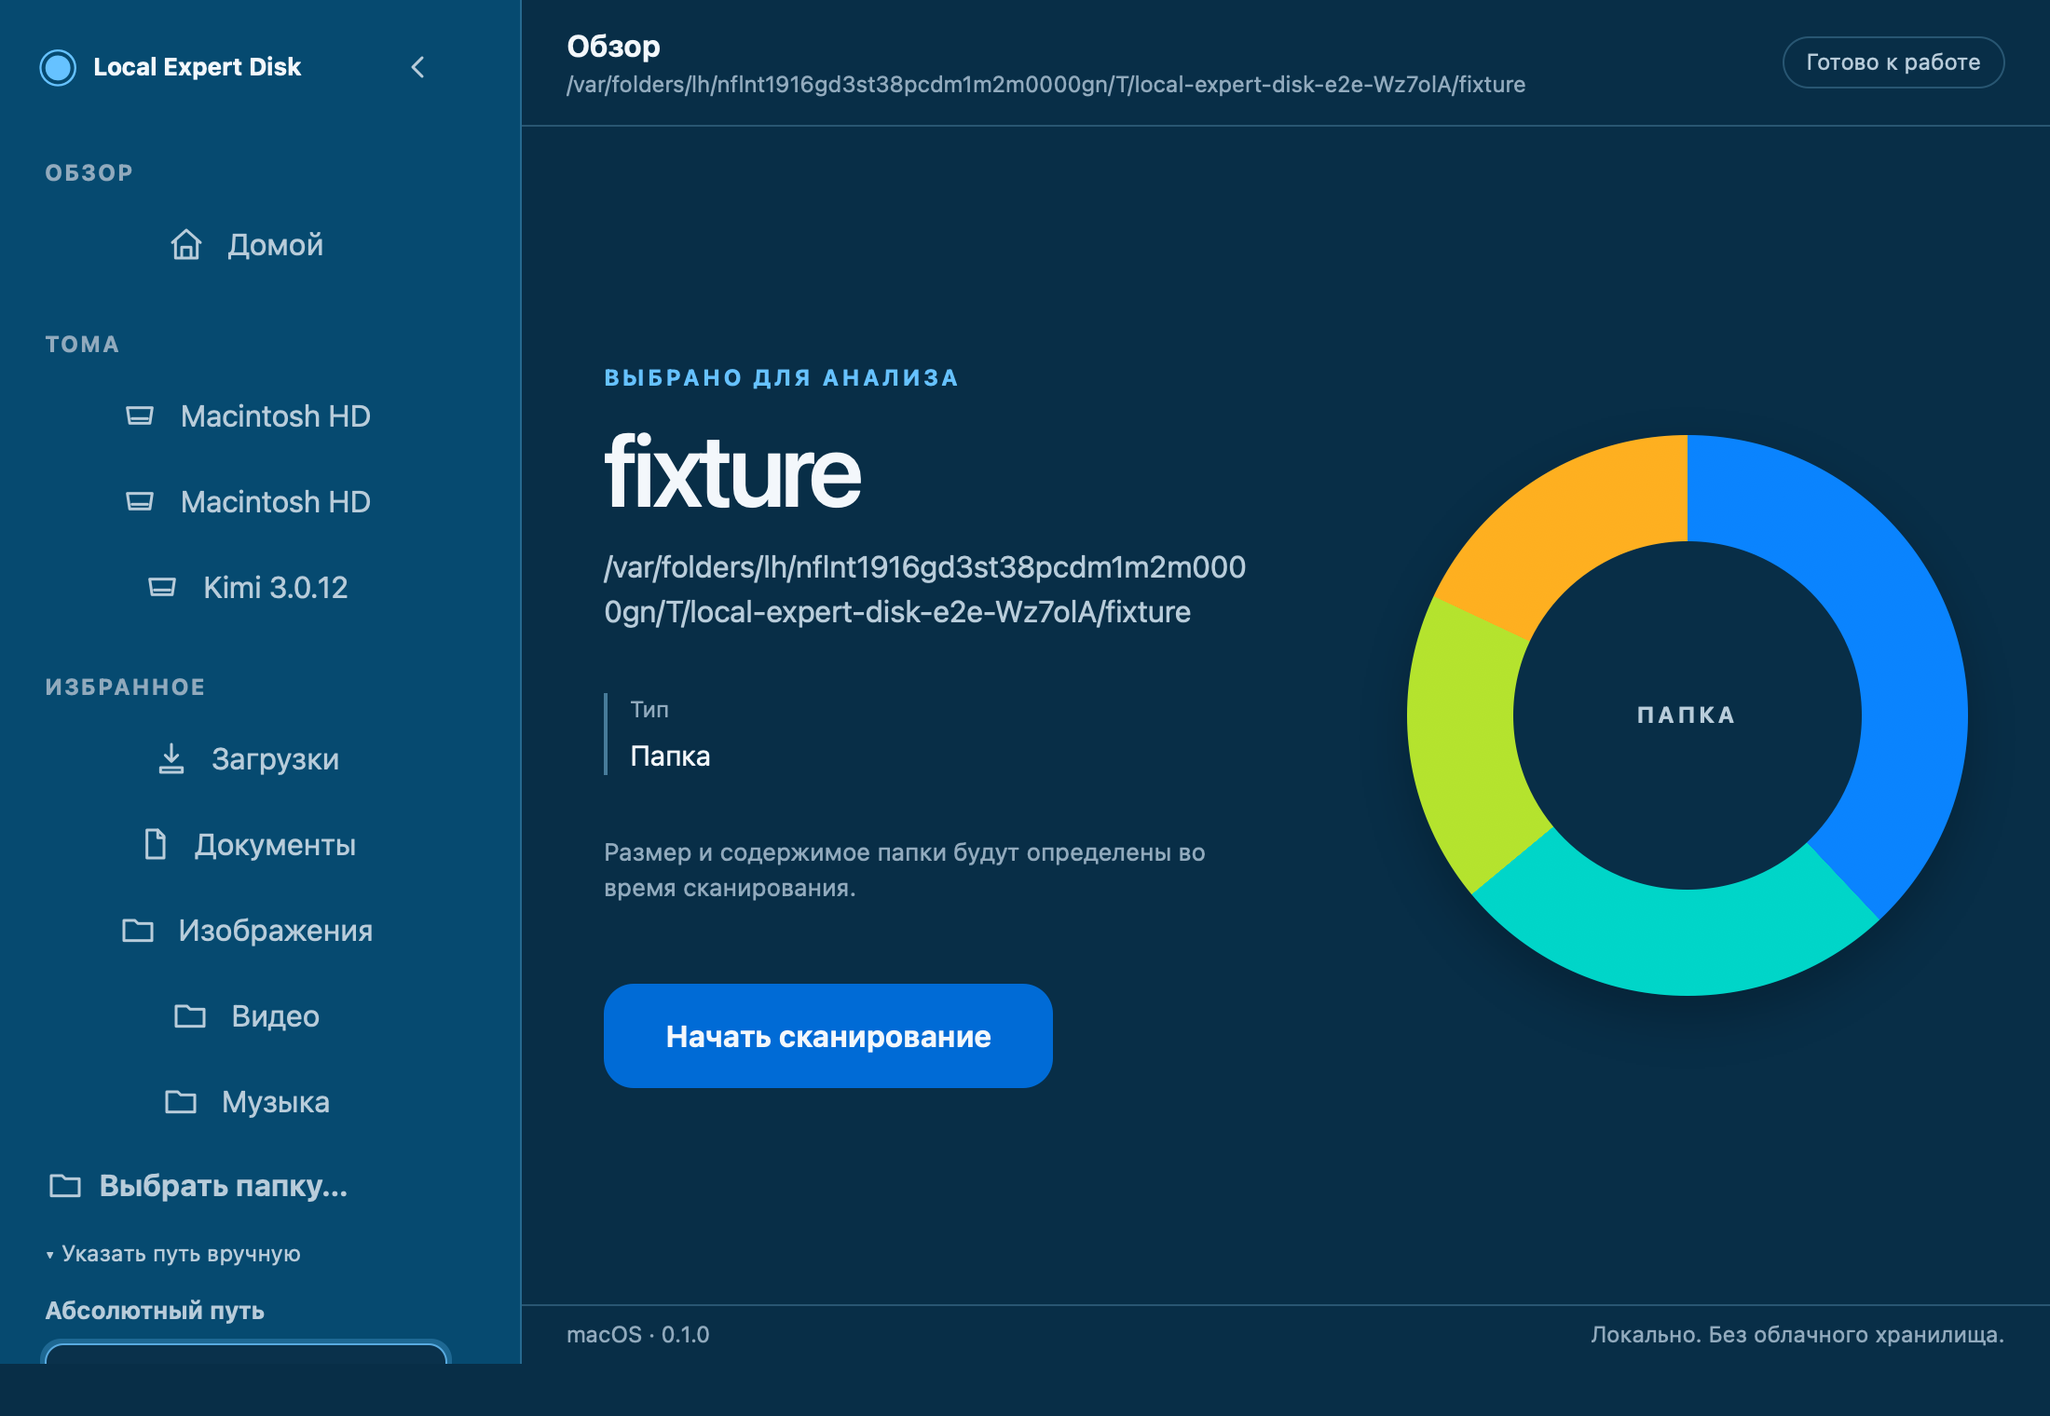
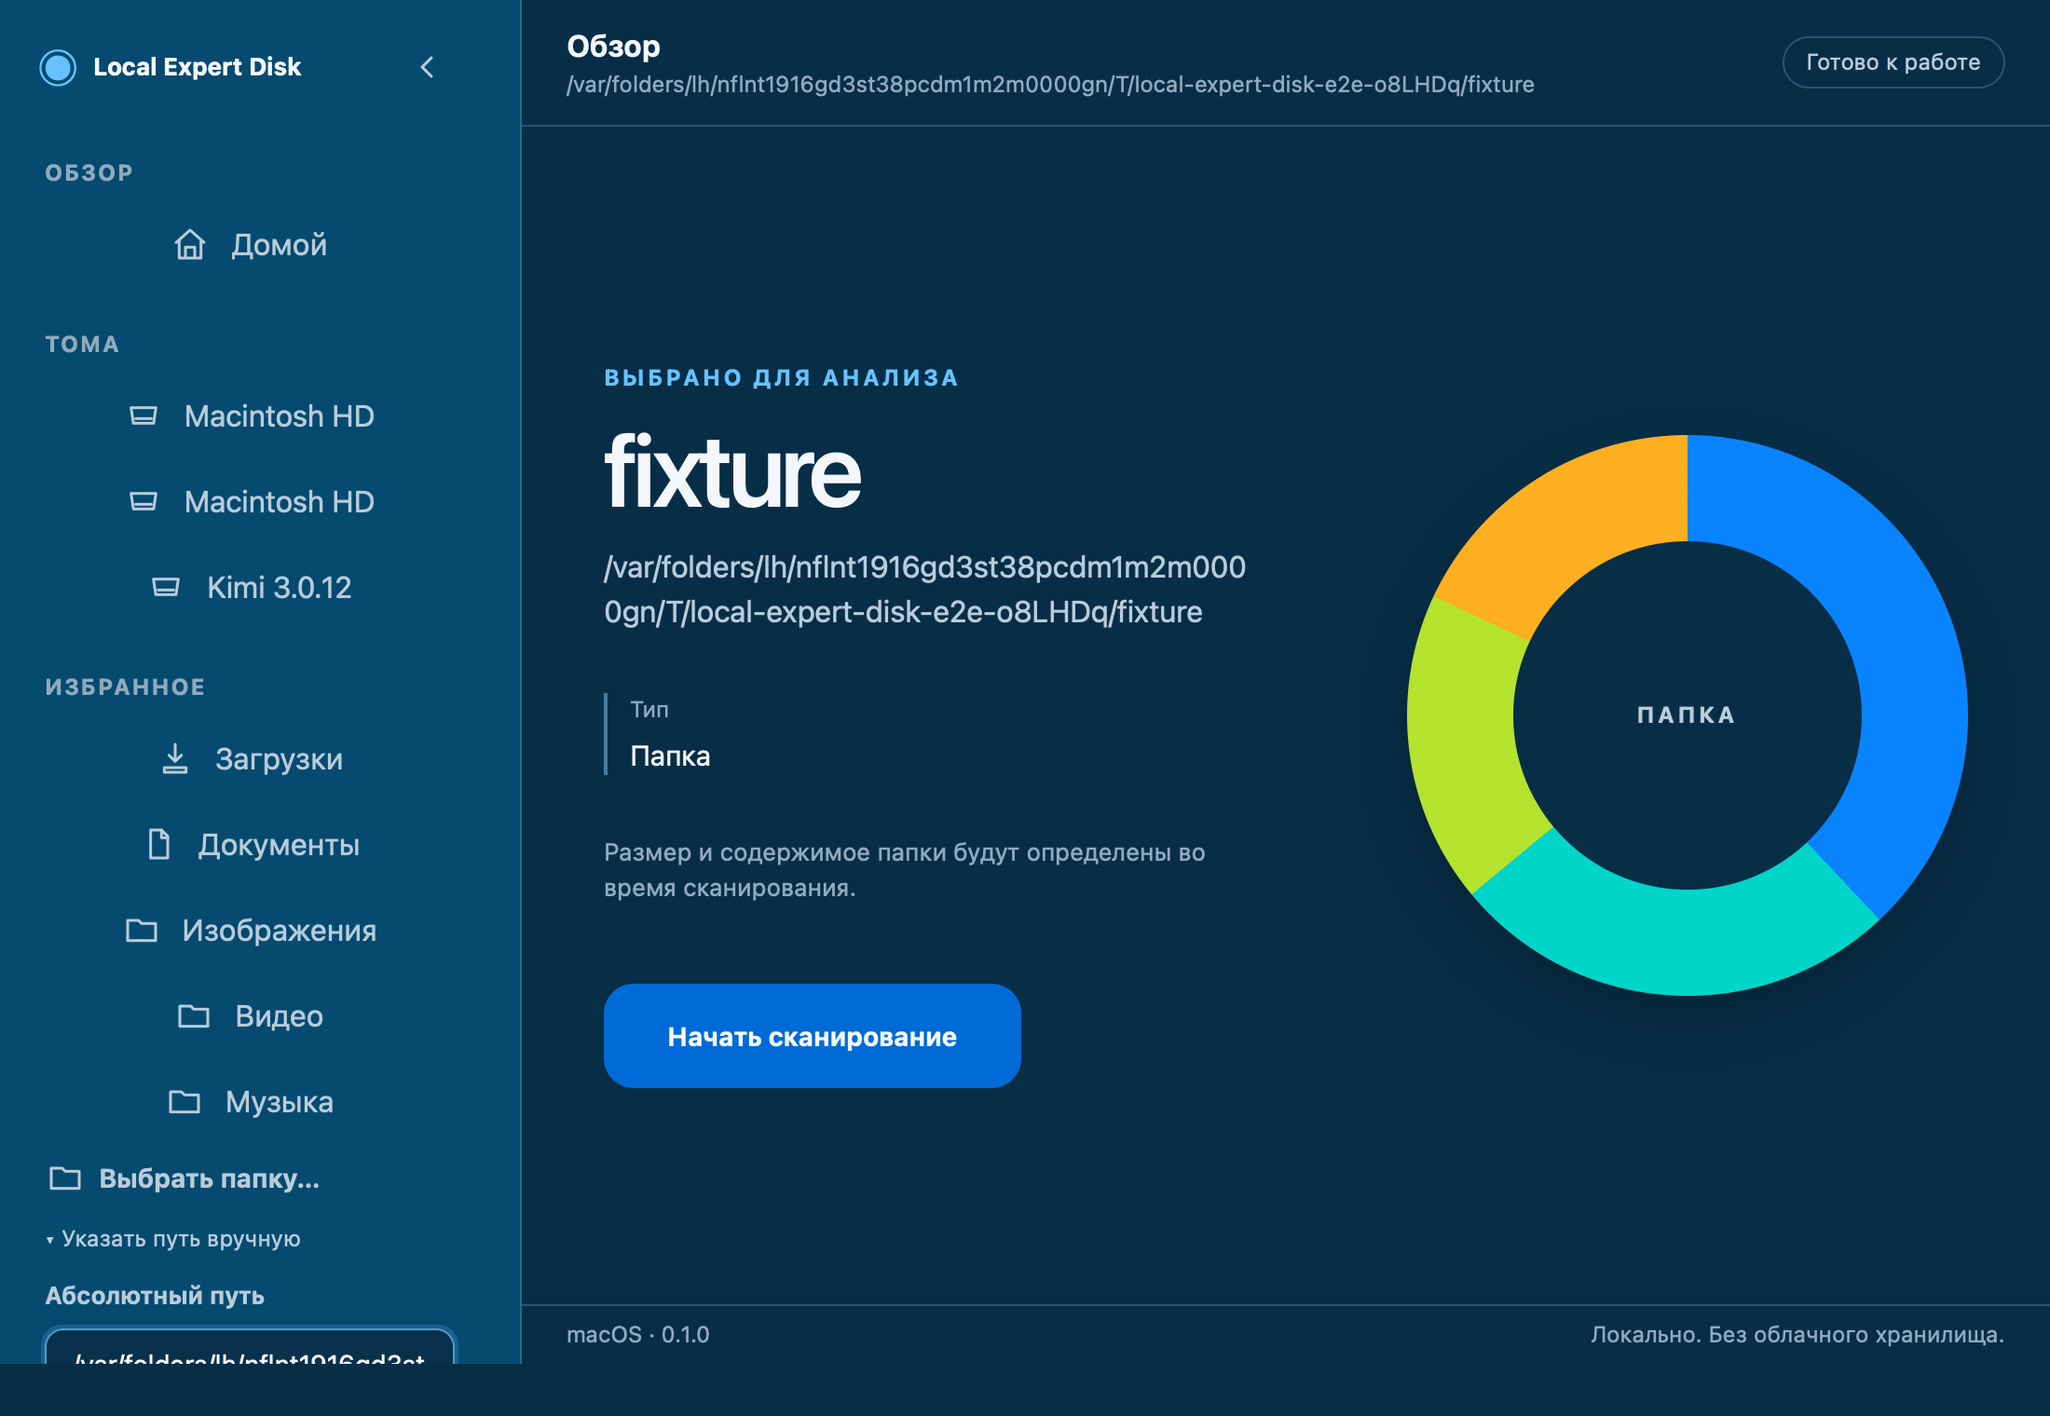
Polish form controls and align virtualized row sizing

diff --git a/apps/desktop/frontend/src/ui/ui.css b/apps/desktop/frontend/src/ui/ui.css
@@ -12,6 +12,7 @@
   border-radius: var(--control-radius);
   display: inline-flex;
   font: inherit;
+  font-size: var(--font-size-control);
   font-weight: var(--font-weight-semibold);
   justify-content: center;
   transition:
@@ -27,8 +28,9 @@
 }
 
 .ui-button--small {
-  min-height: var(--control-height-md);
-  padding-inline: var(--space-3);
+  border-radius: var(--control-radius-compact);
+  min-height: var(--control-height-sm);
+  padding-inline: var(--control-padding-x-compact);
 }
 
 .ui-button--medium {
@@ -36,7 +38,7 @@
 }
 
 .ui-button--large {
-  border-radius: var(--radius-lg);
+  border-radius: var(--control-radius-primary);
   min-height: var(--control-height-lg);
   padding-inline: var(--space-8);
 }
@@ -73,9 +75,14 @@
   border-color: var(--color-border-strong);
 }
 
+.ui-button--secondary:active:not(:disabled),
+.ui-button--ghost:active:not(:disabled) {
+  background: var(--control-background-pressed);
+}
+
 .ui-button--ghost {
   background: transparent;
-  color: var(--color-text-secondary);
+  color: var(--control-text-muted);
 }
 
 .ui-button--danger {
@@ -127,8 +134,8 @@
 .ui-segmented__item {
   background: transparent;
   color: var(--color-text-secondary);
-  min-height: var(--control-height-md);
-  padding-inline: var(--space-4);
+  min-height: var(--control-height-sm);
+  padding-inline: var(--control-padding-x-compact);
 }
 
 .ui-segmented__item:hover:not(:disabled) {
@@ -136,7 +143,7 @@
 }
 
 .ui-segmented__item[aria-pressed="true"] {
-  background: var(--color-accent-selected);
+  background: var(--control-background-selected);
   color: var(--color-text-primary);
 }
 
@@ -159,7 +166,7 @@
   border-radius: var(--control-radius);
   color: var(--control-text);
   font-family: var(--font-family-sans);
-  font-size: var(--font-size-md);
+  font-size: var(--font-size-control);
   font-weight: var(--font-weight-regular);
   min-height: var(--control-height-md);
   min-width: 0;
@@ -241,18 +248,18 @@
   -webkit-appearance: none;
   background: var(--control-background);
   border: var(--border-width) solid var(--control-border-hover);
-  border-radius: 0.3rem;
+  border-radius: var(--checkbox-radius);
   color: var(--color-text-primary);
   display: inline-grid;
   flex: 0 0 auto;
-  height: 1.125rem;
+  height: var(--checkbox-size);
   margin: 0;
   place-content: center;
   transition:
     background-color var(--motion-fast) var(--motion-easing),
     border-color var(--motion-fast) var(--motion-easing),
     box-shadow var(--motion-fast) var(--motion-easing);
-  width: 1.125rem;
+  width: var(--checkbox-size);
 }
 
 .ui-checkbox::before {
@@ -294,6 +301,7 @@
 .ui-search:has(.ui-search__input:disabled),
 .ui-checkbox:disabled {
   background: var(--control-background-disabled);
+  border-color: var(--control-border-disabled);
   color: var(--color-text-disabled);
   cursor: not-allowed;
   opacity: 0.7;

diff --git a/apps/desktop/frontend/src/components/ColumnBrowser.tsx b/apps/desktop/frontend/src/components/ColumnBrowser.tsx
@@ -11,7 +11,7 @@ import type { DirectoryColumn, FolderSort } from "../state/analyzerState";
 import { Icon } from "../ui/icons";
 import { Checkbox } from "../ui/primitives";
 
-const ROW_HEIGHT = 44;
+export const COLUMN_ROW_HEIGHT_PX = 40;
 const VIEWPORT_HEIGHT = 420;
 const VIRTUAL_THRESHOLD = 40;
 const OVERSCAN = 5;
@@ -96,9 +96,10 @@ function Column({
 
   const start =
     items.length >= VIRTUAL_THRESHOLD
-      ? Math.max(0, Math.floor(liveScrollTop / ROW_HEIGHT) - OVERSCAN)
+      ? Math.max(0, Math.floor(liveScrollTop / COLUMN_ROW_HEIGHT_PX) - OVERSCAN)
       : 0;
-  const visibleCount = Math.ceil(VIEWPORT_HEIGHT / ROW_HEIGHT) + OVERSCAN * 2;
+  const visibleCount =
+    Math.ceil(VIEWPORT_HEIGHT / COLUMN_ROW_HEIGHT_PX) + OVERSCAN * 2;
   const end =
     items.length >= VIRTUAL_THRESHOLD
       ? Math.min(items.length, start + visibleCount)
@@ -114,7 +115,7 @@ function Column({
       if (viewportRef.current)
         viewportRef.current.scrollTop = Math.max(
           0,
-          nextIndex * ROW_HEIGHT - ROW_HEIGHT * 2,
+          nextIndex * COLUMN_ROW_HEIGHT_PX - COLUMN_ROW_HEIGHT_PX * 2,
         );
     }
     requestAnimationFrame(() => rowRefs.current.get(next.id)?.focus());
@@ -175,7 +176,9 @@ function Column({
         role="option"
         style={
           items.length >= VIRTUAL_THRESHOLD
-            ? { transform: `translateY(${itemIndex * ROW_HEIGHT}px)` }
+            ? {
+                transform: `translateY(${itemIndex * COLUMN_ROW_HEIGHT_PX}px)`,
+              }
             : undefined
         }
         tabIndex={focusedEntryId === entry.id ? 0 : -1}
@@ -252,7 +255,7 @@ function Column({
         {items.length >= VIRTUAL_THRESHOLD ? (
           <div
             className="directory-column__spacer"
-            style={{ height: items.length * ROW_HEIGHT }}
+            style={{ height: items.length * COLUMN_ROW_HEIGHT_PX }}
           >
             {rows}
           </div>

diff --git a/apps/desktop/frontend/src/ui/tokens.css b/apps/desktop/frontend/src/ui/tokens.css
@@ -4,6 +4,7 @@
   --font-family-sans: -apple-system, BlinkMacSystemFont, "Segoe UI", sans-serif;
   --font-size-xs: 0.75rem;
   --font-size-sm: 0.8125rem;
+  --font-size-control: 0.875rem;
   --font-size-md: 0.9375rem;
   --font-size-lg: 1.0625rem;
   --font-size-xl: 1.375rem;
@@ -78,22 +79,34 @@
   --shadow-focus: 0 0 0 3px rgb(102 194 255 / 32%);
 
   --control-height-sm: 2rem;
-  --control-height-md: 2.5rem;
+  --control-height-md: 2.375rem;
   --control-height-search: 2.75rem;
   --control-height-lg: 3.5rem;
+  --control-radius-compact: 0.5rem;
   --control-radius: 0.625rem;
   --control-radius-search: 0.875rem;
+  --control-radius-primary: 1rem;
+  --control-padding-x-compact: 0.75rem;
   --control-padding-x: 0.875rem;
   --control-background: var(--color-background-subtle);
   --control-background-hover: var(--color-background-elevated);
+  --control-background-pressed: var(--color-accent-subtle);
+  --control-background-selected: var(--color-accent-selected);
   --control-background-disabled: var(--color-background-subtle);
   --control-border: var(--color-border-default);
   --control-border-hover: var(--color-border-strong);
   --control-border-focus: var(--color-border-focus);
+  --control-border-disabled: var(--color-border-default);
   --control-text: var(--color-text-primary);
+  --control-text-muted: var(--color-text-secondary);
   --control-placeholder: var(--color-text-muted);
   --control-icon: var(--color-text-secondary);
   --control-focus-ring: var(--shadow-focus);
+  --checkbox-size: 1.125rem;
+  --checkbox-radius: 0.3rem;
+  --scrollbar-size: 0.625rem;
+  --scrollbar-thumb: var(--color-border-strong);
+  --scrollbar-thumb-hover: var(--color-border-focus);
   --row-height-compact: 2.5rem;
   --row-height-comfortable: 3rem;
   --sidebar-width: 17.5rem;

diff --git a/apps/desktop/frontend/src/styles.css b/apps/desktop/frontend/src/styles.css
@@ -7,6 +7,25 @@
 }
 * {
   box-sizing: border-box;
+  scrollbar-color: var(--scrollbar-thumb) transparent;
+  scrollbar-width: thin;
+}
+*::-webkit-scrollbar {
+  height: var(--scrollbar-size);
+  width: var(--scrollbar-size);
+}
+*::-webkit-scrollbar-track {
+  background: transparent;
+}
+*::-webkit-scrollbar-thumb {
+  background: var(--scrollbar-thumb);
+  background-clip: padding-box;
+  border: 2px solid transparent;
+  border-radius: var(--radius-pill);
+}
+*::-webkit-scrollbar-thumb:hover {
+  background: var(--scrollbar-thumb-hover);
+  background-clip: padding-box;
 }
 body {
   margin: 0;
@@ -433,7 +452,7 @@ button {
   display: inline-flex;
   font: inherit;
   font-family: var(--font-family-sans);
-  font-size: var(--font-size-md);
+  font-size: var(--font-size-control);
   font-weight: var(--font-weight-semibold);
   justify-content: center;
   min-height: var(--control-height-md);
@@ -698,7 +717,7 @@ progress {
   display: grid;
   gap: var(--space-2);
   grid-template-columns: 1.25rem 1.25rem minmax(4rem, 1fr) auto 0.75rem;
-  height: 44px;
+  height: var(--row-height-compact);
   padding: 0 var(--space-2);
 }
 .column-row:hover {

diff --git a/apps/desktop/frontend/src/ui/tokens.test.ts b/apps/desktop/frontend/src/ui/tokens.test.ts
@@ -129,10 +129,15 @@ describe("semantic design tokens", () => {
     const smallHeight = Number.parseFloat(token("control-height-sm"));
     const mediumHeight = Number.parseFloat(token("control-height-md"));
     const searchHeight = Number.parseFloat(token("control-height-search"));
-    expect(smallHeight).toBeGreaterThanOrEqual(2);
-    expect(mediumHeight).toBeGreaterThanOrEqual(2.5);
+    expect(smallHeight).toBe(2);
+    expect(mediumHeight).toBeGreaterThanOrEqual(2.25);
+    expect(mediumHeight).toBeLessThanOrEqual(2.5);
     expect(searchHeight).toBeGreaterThanOrEqual(2.625);
     expect(searchHeight).toBeLessThanOrEqual(2.875);
+    expect(token("font-size-control")).toBe("0.875rem");
+    expect(token("checkbox-size")).toBe("1.125rem");
+    expect(token("scrollbar-size")).toBe("0.625rem");
+    expect(token("row-height-compact")).toBe("2.5rem");
     expect(token("control-background")).toBe("var(--color-background-subtle)");
     expect(token("control-border-focus")).toBe("var(--color-border-focus)");
   });

diff --git a/apps/desktop/frontend/src/AnalyzerPanel.test.tsx b/apps/desktop/frontend/src/AnalyzerPanel.test.tsx
@@ -8,6 +8,7 @@ import {
 } from "@testing-library/react";
 import { beforeEach, describe, expect, it, vi } from "vitest";
 import { AnalyzerPanel } from "./AnalyzerPanel";
+import { COLUMN_ROW_HEIGHT_PX } from "./components/ColumnBrowser";
 import {
   getChildren,
   getCategories,
@@ -190,7 +191,9 @@ describe("Analyzer UI", () => {
     const list = screen.getByRole("listbox", {
       name: "Содержимое каталога fixture",
     });
-    fireEvent.scroll(list, { target: { scrollTop: 44 * 99 } });
+    fireEvent.scroll(list, {
+      target: { scrollTop: COLUMN_ROW_HEIGHT_PX * 99 },
+    });
     expect(await findInExplorer("file-099")).toBeInTheDocument();
     expect(within(list).getAllByRole("option").length).toBeLessThan(100);
   });

diff --git a/docs/implementation/IMPLEMENTATION_PLAN.md b/docs/implementation/IMPLEMENTATION_PLAN.md
@@ -3668,3 +3668,46 @@ Release Artifact
 ```
 
 Ни код, ни документ не должны становиться вторым независимым источником тех же требований.
+
+---
+
+# 131. Visual Fidelity Pass — аудит UI-контролов
+
+Проверка от 2026-09-27 относится только к визуальной доводке существующего
+desktop-интерфейса. AppShell, навигация, scanner, модель файловой системы,
+Column Browser, Sunburst и Treemap не перепроектировались.
+
+| Область | Результат аудита и реализация |
+| --- | --- |
+| Design tokens | Размеры, радиусы, отступы, цвета, состояния, focus ring, motion и checkbox собраны в `apps/desktop/frontend/src/ui/tokens.css`. Compact/default/search/primary имеют высоты 32/38/44/56 px. |
+| Input и Path Input | Общие `TextField` и `.ui-input`; hover, focus, disabled, invalid и placeholder используют semantic tokens. Поле пути и соседняя кнопка имеют согласованную default-высоту. |
+| Search | `SearchField` объединяет native search semantics, собственную иконку и theme surface. Сохраняется submit-кнопка, потому что поиск выполняется явным IPC-запросом; `Cmd+F`/`Ctrl+F` и focus сохраняются. |
+| Select | Все экранные select проходят через `SelectControl`: `appearance: none`, единая оболочка и собственный chevron. Используется для метрики размера, сортировки, категорий, истории и других фильтров. Popup остаётся системным доступным списком WebView; закрытый контрол не имеет native bevel/arrow. |
+| Checkbox | Все экранные checkbox проходят через `Checkbox`; размер 18 px, собственные checked/hover/focus/disabled states. |
+| Buttons | Обычные действия используют общие primary/secondary/ghost/danger variants и semantic states. Специализированные sidebar, breadcrumb, treemap и sunburst buttons сохраняют нативную button-семантику и собственную геометрию, но используют те же tokens и видимый focus. |
+| Segmented controls | Режимы результатов и Treemap/Sunburst используют один `SegmentedControl` с `aria-pressed`; compact item height — 32 px. |
+| Typography и numbers | Системный sans-serif сохранён; control text — 14 px. Размеры файлов используют tabular numerals и правое выравнивание в строках. |
+| File rows и scrollbars | Строка Column Browser — 40 px; hover, selected, active и keyboard focus различимы. Scrollbars сохраняют platform behavior и получают неброскую tokenized стилизацию там, где её поддерживает WebView. |
+| Bottom Action Bar | `SelectionActionBar` использует общие button variants, tokenized surface/border и стабильные disabled states. |
+
+Автоматические ограничения находятся в `ui/tokens.test.ts` и
+`ui/primitives.test.tsx`: они запрещают raw colors вне token source, проверяют
+контраст и состояния, не допускают raw select/checkbox и нестилизованные input
+в рабочих экранах, а также проверяют доступные имена и семантику primitives.
+
+Screenshot evidence:
+
+```text
+docs/evidence/ui-form-controls-polish/01-selected-target.png
+docs/evidence/ui-form-controls-polish/02-structure-result.png
+docs/evidence/ui-form-controls-polish/03-nested-directory.png
+docs/evidence/ui-form-controls-polish/04-selection-review.png
+docs/evidence/ui-form-controls-polish/05-large-files-controls.png
+docs/evidence/ui-form-controls-polish/06-search-controls.png
+```
+
+Осознанно сохранённые различия с reference: продуктовые названия и состав
+действий Local Expert Disk, отсутствие коммерческого блока MacCleaner,
+структура уже принятого AppShell и системный popup нативного `<select>`.
+Последний сохраняет accessibility и keyboard navigation; внешний закрытый
+контрол, chevron и все его состояния полностью задаются дизайн-системой.
